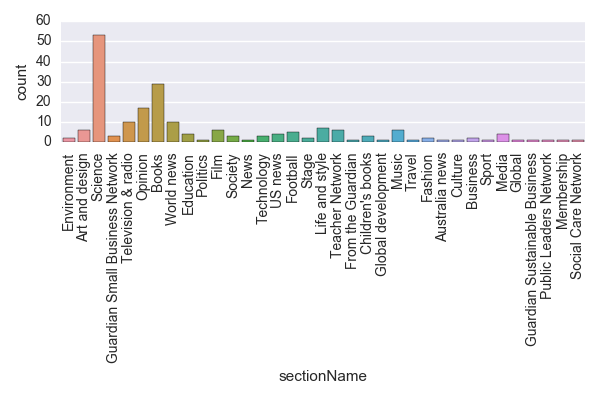
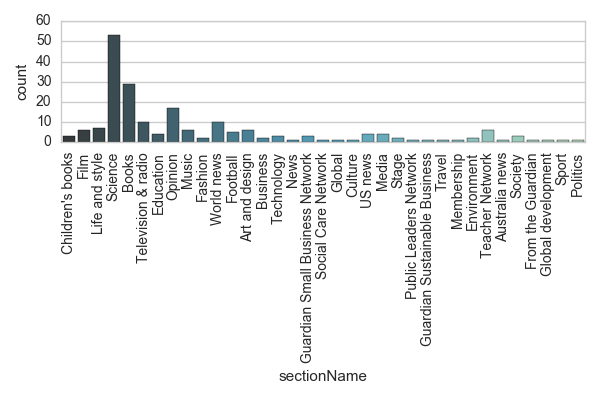
save

diff --git a/Analysis.py b/Analysis.py
@@ -1,0 +1,160 @@
+
+# coding: utf-8
+
+# In[140]:
+
+import pandas as pd
+import numpy as np
+import seaborn as sns
+import matplotlib.pyplot as plt
+from ggplot import *
+import time
+import configparser
+import requests
+import os
+import json
+import urllib
+
+sns.set_palette("GnBu_d")
+sns.set_style('whitegrid')
+
+# import hypertools as hyp
+get_ipython().magic('matplotlib inline')
+
+
+# In[117]:
+
+def get_api_call_for_section(query):
+    config = configparser.ConfigParser()
+    config.read('config/config.cfg')
+    BASE_URL = config.get('GUARDIAN', 'BASE_URL')
+    API_KEY = config.get('GUARDIAN', 'API_KEY')
+
+    # url_string = BASE_URL + 'search/v2/articlesearch.json?&fq=section_name:"' + section + '"&sort=newest&api-key=' + API_KEY
+    url_string = BASE_URL + 'search?q=' + query + '&page-size=200&show-fields=headline,body,shorturl&api-key=' + API_KEY
+    return url_string
+
+
+# In[118]:
+
+print('main code')
+url_string = get_api_call_for_section('Einstein')
+print('make call to ', url_string)
+    
+req = requests.get(url_string)
+data = req.json()
+with open('data.txt', 'w') as outfile:
+    json.dump(data, outfile, indent=2, sort_keys=True)
+
+
+# In[119]:
+
+with open('data.txt', 'r') as f:
+     data = json.load(f)
+    
+
+
+# In[120]:
+
+search_results = data['response']['results']
+
+
+# In[121]:
+
+search_results_df = pd.DataFrame(search_results)
+search_results_df.info()
+search_results_df.head()
+
+
+# In[144]:
+
+g = sns.countplot(search_results_df['sectionName'], palette='GnBu_d')
+plt.xticks(rotation=90)
+plt.tight_layout()
+plt.savefig('plots/plot1.png')
+
+
+# In[145]:
+
+# format = lambda x: str(x).split('T')[0]
+def format(x):
+    split = str(x).split('-')
+    return split[0] + '-' + split[1]
+search_results_df['date'] = search_results_df['webPublicationDate'].map(format)
+search_results_df.head()
+
+search_results_df = search_results_df.sort_values('date', ascending=True)
+
+
+
+sns.countplot(search_results_df['date'], palette='GnBu_d')
+plt.xticks(rotation=90)
+
+
+plt.savefig('plots/plot2.png')
+
+
+# In[151]:
+
+dates = search_results_df['date'].unique()
+
+origin = dates[0].split("-")
+origin
+date_count = []
+for date in dates:
+    date_df = search_results_df[search_results_df['date'] == date]
+    split_date = date.split("-")
+    
+    count = len(date_df)
+    months = (int(split_date[0]) - int(origin[0]))*12 + int(split_date[1]) - int(origin[1])
+    date_count.append({'date': date, 'count': count, 'months': months})
+    
+date_count = pd.DataFrame(date_count)
+date_count.head()
+
+
+# In[150]:
+
+origin = dates[0].split("-")
+origin
+
+
+# In[ ]:
+
+sns.regplot('')
+
+
+# ## arXiv APi
+
+# In[95]:
+
+import xml.etree.ElementTree as ET
+
+arxivUrl = 'http://export.arxiv.org/api/query?search_query=all:Einstein'
+
+data = urllib.request.urlopen(arxivUrl).read()
+with open('arxiv.xml', 'wb') as outfile:
+    outfile.write(data)
+
+
+# In[ ]:
+
+
+
+
+# ## Wikipedia
+
+# In[101]:
+
+articles = pd.read_csv('/Volumes/Porsche/data/articles.csv')
+
+
+# In[102]:
+
+articles.head()
+
+
+# In[ ]:
+
+
+
